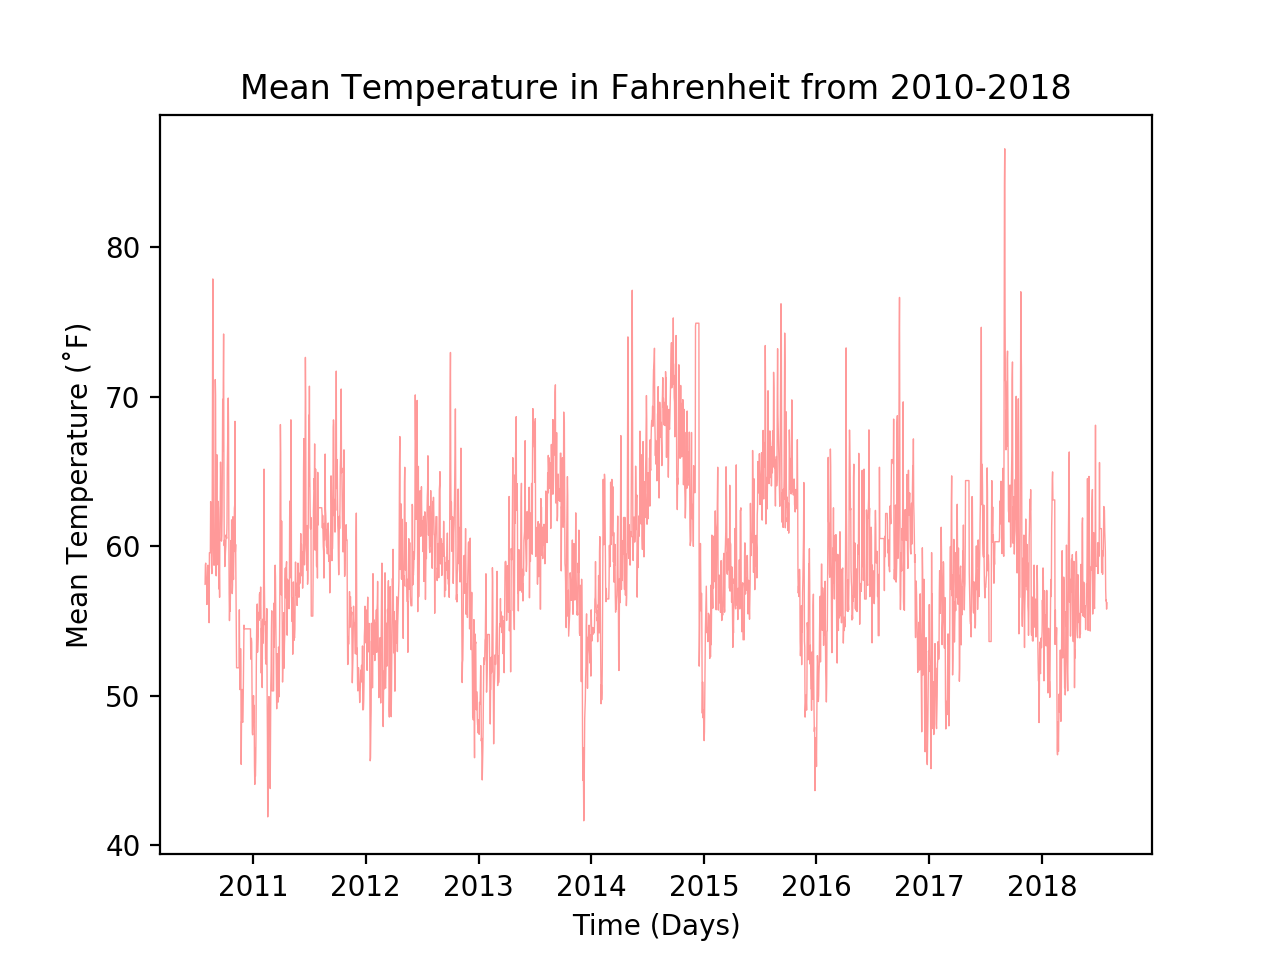
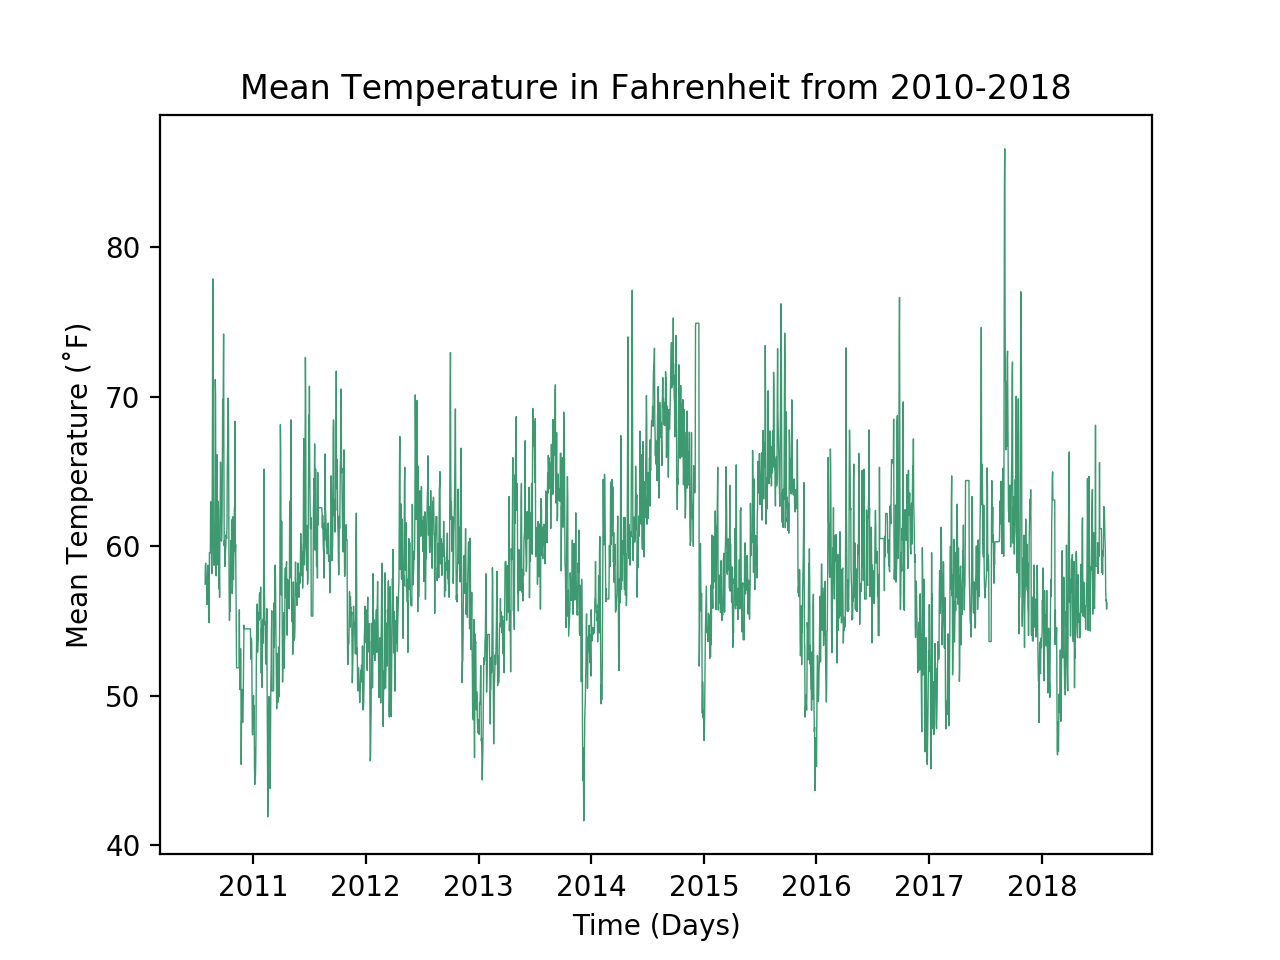
Fixed graph stuff

Changed region(s): [[0.1562, 0.3125, 0.875, 0.8125]]

diff --git a/avg_temperature_model.py b/avg_temperature_model.py
@@ -5,12 +5,12 @@ import statsmodels.api as sm
 import statsmodels.tsa.arima_model as arima
 
 def initial_plot(df):
-    plt.plot(df['mean'], color='#ff9999', linewidth=0.5)
+    plt.plot(df['mean'], color='#3D9970', linewidth=0.5)
     plt.title('Mean Temperature in Fahrenheit from 2010-2018')
     plt.xlabel('Time (Days)')
     plt.ylabel('Mean Temperature (˚F)')
-    plt.savefig('initial_plot.svg', dpi=200)
-    plt.savefig('initial_plot.png', dpi=200)
+    plt.savefig('plots/initial_plot.svg', dpi=200)
+    plt.savefig('plots/initial_plot.png', dpi=200)
 
 def stuff():
     # df.plot(figsize=(16,8), xlim=('2010-07-30', '2011-07-30'))

diff --git a/README.md b/README.md
@@ -1,3 +1,3 @@
 ## Pricing Weather Derivatives
 
-<img src="initial_plot.svg" width="100%" height="544">
+<img src="plots/initial_plot.svg" width="100%" height="544">
